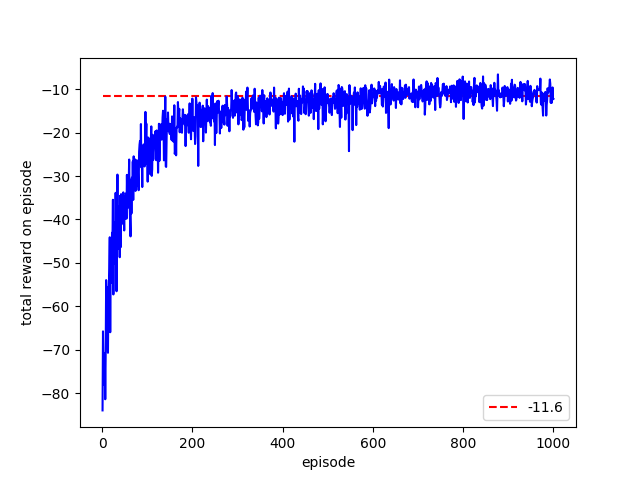
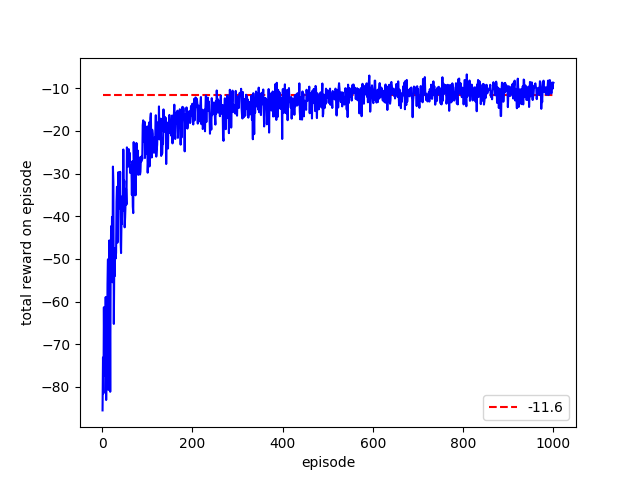
Add figure 13.2

diff --git a/chapter13/short_corridor.py b/chapter13/short_corridor.py
@@ -61,9 +61,9 @@ def softmax(x):
     t = np.exp(x - np.max(x))
     return t / np.sum(t)
 
-class Agent:
+class ReinforceAgent:
     """
-    Agent that follows algorithm
+    ReinforceAgent that follows algorithm
     'REINFORNCE Monte-Carlo Policy-Gradient Control (episodic)'
     """
     def __init__(self, alpha, gamma):
@@ -118,26 +118,54 @@ class Agent:
         gamma_pow = 1
 
         for i in range(len(G)):
-            if self.actions[i]:
-                j = 1
-            else:
-                j = 0
-
+            j = 1 if self.actions[i] else 0
             pmf = self.get_pi()
-            grad_lnpi = self.x[:, j] - np.dot(self.x, pmf)
-            update = self.alpha * gamma_pow * G[i] * grad_lnpi
+            grad_ln_pi = self.x[:, j] - np.dot(self.x, pmf)
+            update = self.alpha * gamma_pow * G[i] * grad_ln_pi
+
             self.theta += update
             gamma_pow *= self.gamma
 
         self.rewards = []
         self.actions = []
 
-def trial(num_episodes, alpha, gamma):
+class ReinforceBaselineAgent(ReinforceAgent):
+    def __init__(self, alpha, gamma, alpha_w):
+        super(ReinforceBaselineAgent, self).__init__(alpha, gamma)
+        self.alpha_w = alpha_w
+        self.w = 0
+
+    def episode_end(self, last_reward):
+        self.rewards.append(last_reward)
+
+        # learn theta
+        G = np.zeros(len(self.rewards))
+        G[-1] = self.rewards[-1]
+
+        for i in range(2, len(G) + 1):
+            G[-i] = self.gamma * G[-i + 1] + self.rewards[-i]
+
+        gamma_pow = 1
+
+        for i in range(len(G)):
+            self.w += self.alpha_w * gamma_pow * (G[i] - self.w)
+
+            j = 1 if self.actions[i] else 0
+            pmf = self.get_pi()
+            grad_ln_pi = self.x[:, j] - np.dot(self.x, pmf)
+            update = self.alpha * gamma_pow * (G[i] - self.w) * grad_ln_pi
+
+            self.theta += update
+            gamma_pow *= self.gamma
+
+        self.rewards = []
+        self.actions = []
+
+def trial(num_episodes, agent_generator):
     env = ShortCorridor()
-    agent = Agent(alpha=alpha, gamma=gamma)
+    agent = agent_generator()
 
     rewards = np.zeros(num_episodes)
-
     for episode_idx in range(num_episodes):
         rewards_sum = 0
         reward = None
@@ -191,9 +219,10 @@ def figure_13_1():
     gamma = 1
 
     rewards = np.zeros((num_trials, num_episodes))
+    agent_generator = lambda : ReinforceAgent(alpha=alpha, gamma=gamma)
 
     for i in tqdm(range(num_trials)):
-        reward = trial(num_episodes, alpha, gamma)
+        reward = trial(num_episodes, agent_generator)
         rewards[i, :] = reward
 
     plt.plot(np.arange(num_episodes) + 1, -11.6 * np.ones(num_episodes), ls='dashed', color='red', label='-11.6')
@@ -205,6 +234,34 @@ def figure_13_1():
     plt.savefig('../images/figure_13_1.png')
     plt.close()
 
+def figure_13_2():
+    num_trials = 30
+    num_episodes = 1000
+    alpha = 2e-4
+    gamma = 1
+    agent_generators = [lambda : ReinforceAgent(alpha=alpha, gamma=gamma),
+                        lambda : ReinforceBaselineAgent(alpha=alpha, gamma=gamma, alpha_w=alpha*100)]
+    labels = ['Reinforce with baseline',
+              'Reinforce without baseline']
+
+    rewards = np.zeros((len(agent_generators), num_trials, num_episodes))
+
+    for agent_index, agent_generator in enumerate(agent_generators):
+        for i in tqdm(range(num_trials)):
+            reward = trial(num_episodes, agent_generator)
+            rewards[agent_index, i, :] = reward
+
+    plt.plot(np.arange(num_episodes) + 1, -11.6 * np.ones(num_episodes), ls='dashed', color='red', label='-11.6')
+    for i, label in enumerate(labels):
+        plt.plot(np.arange(num_episodes) + 1, rewards[i].mean(axis=0), label=label)
+    plt.ylabel('total reward on episode')
+    plt.xlabel('episode')
+    plt.legend(loc='lower right')
+
+    plt.savefig('../images/figure_13_2.png')
+    plt.close()
+
 if __name__ == '__main__':
     # example_13_1()
-    figure_13_1()
+    # figure_13_1()
+    figure_13_2()
